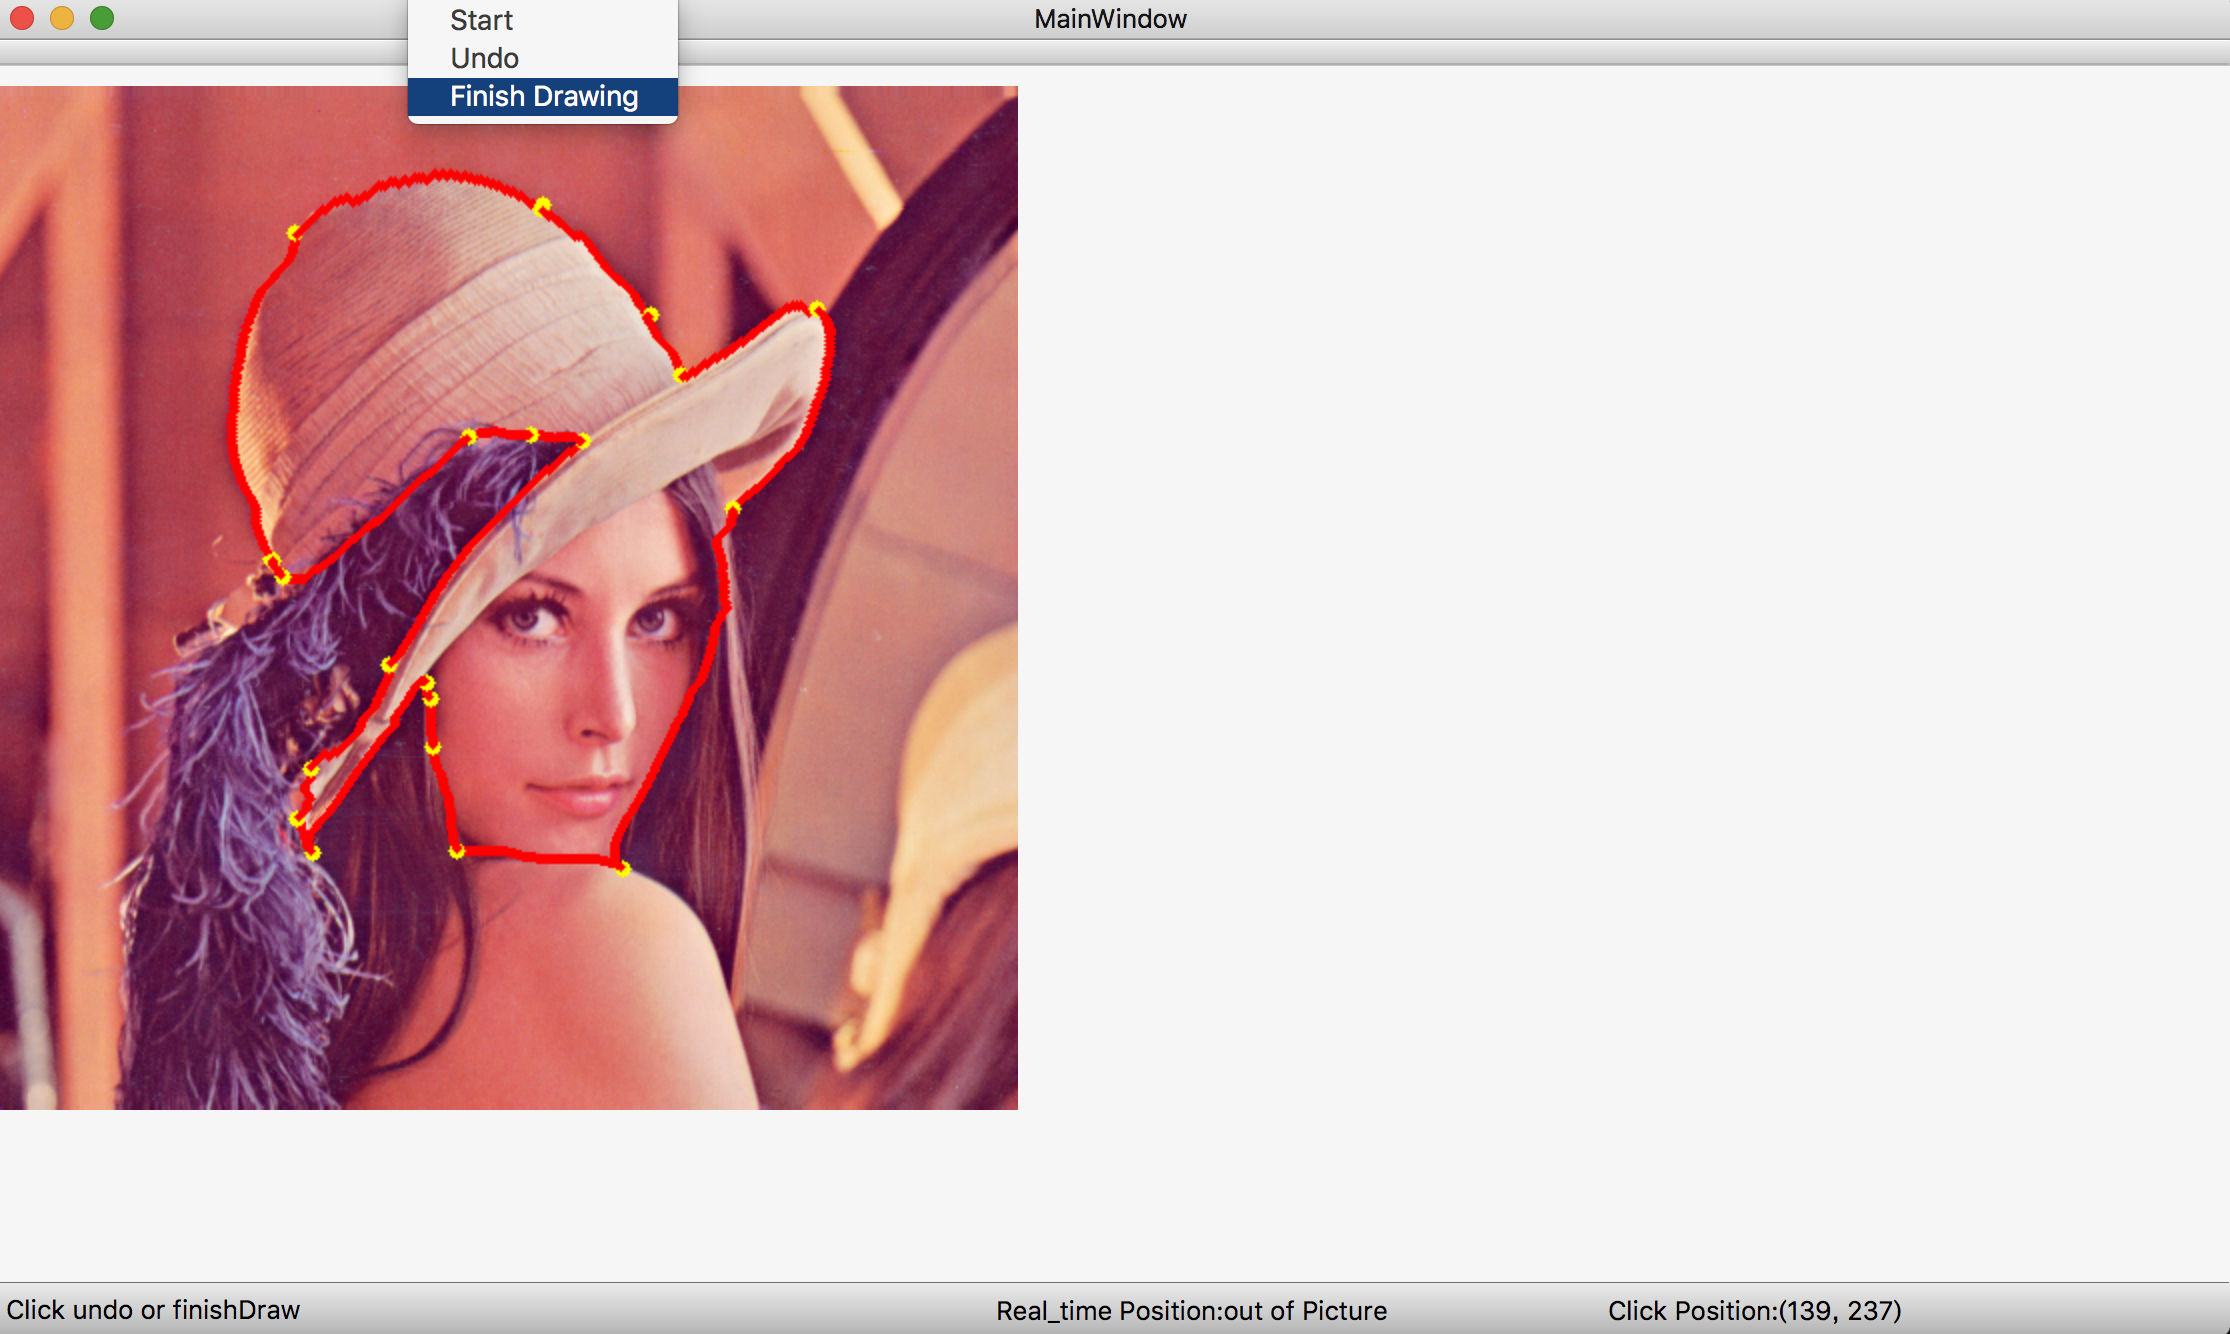
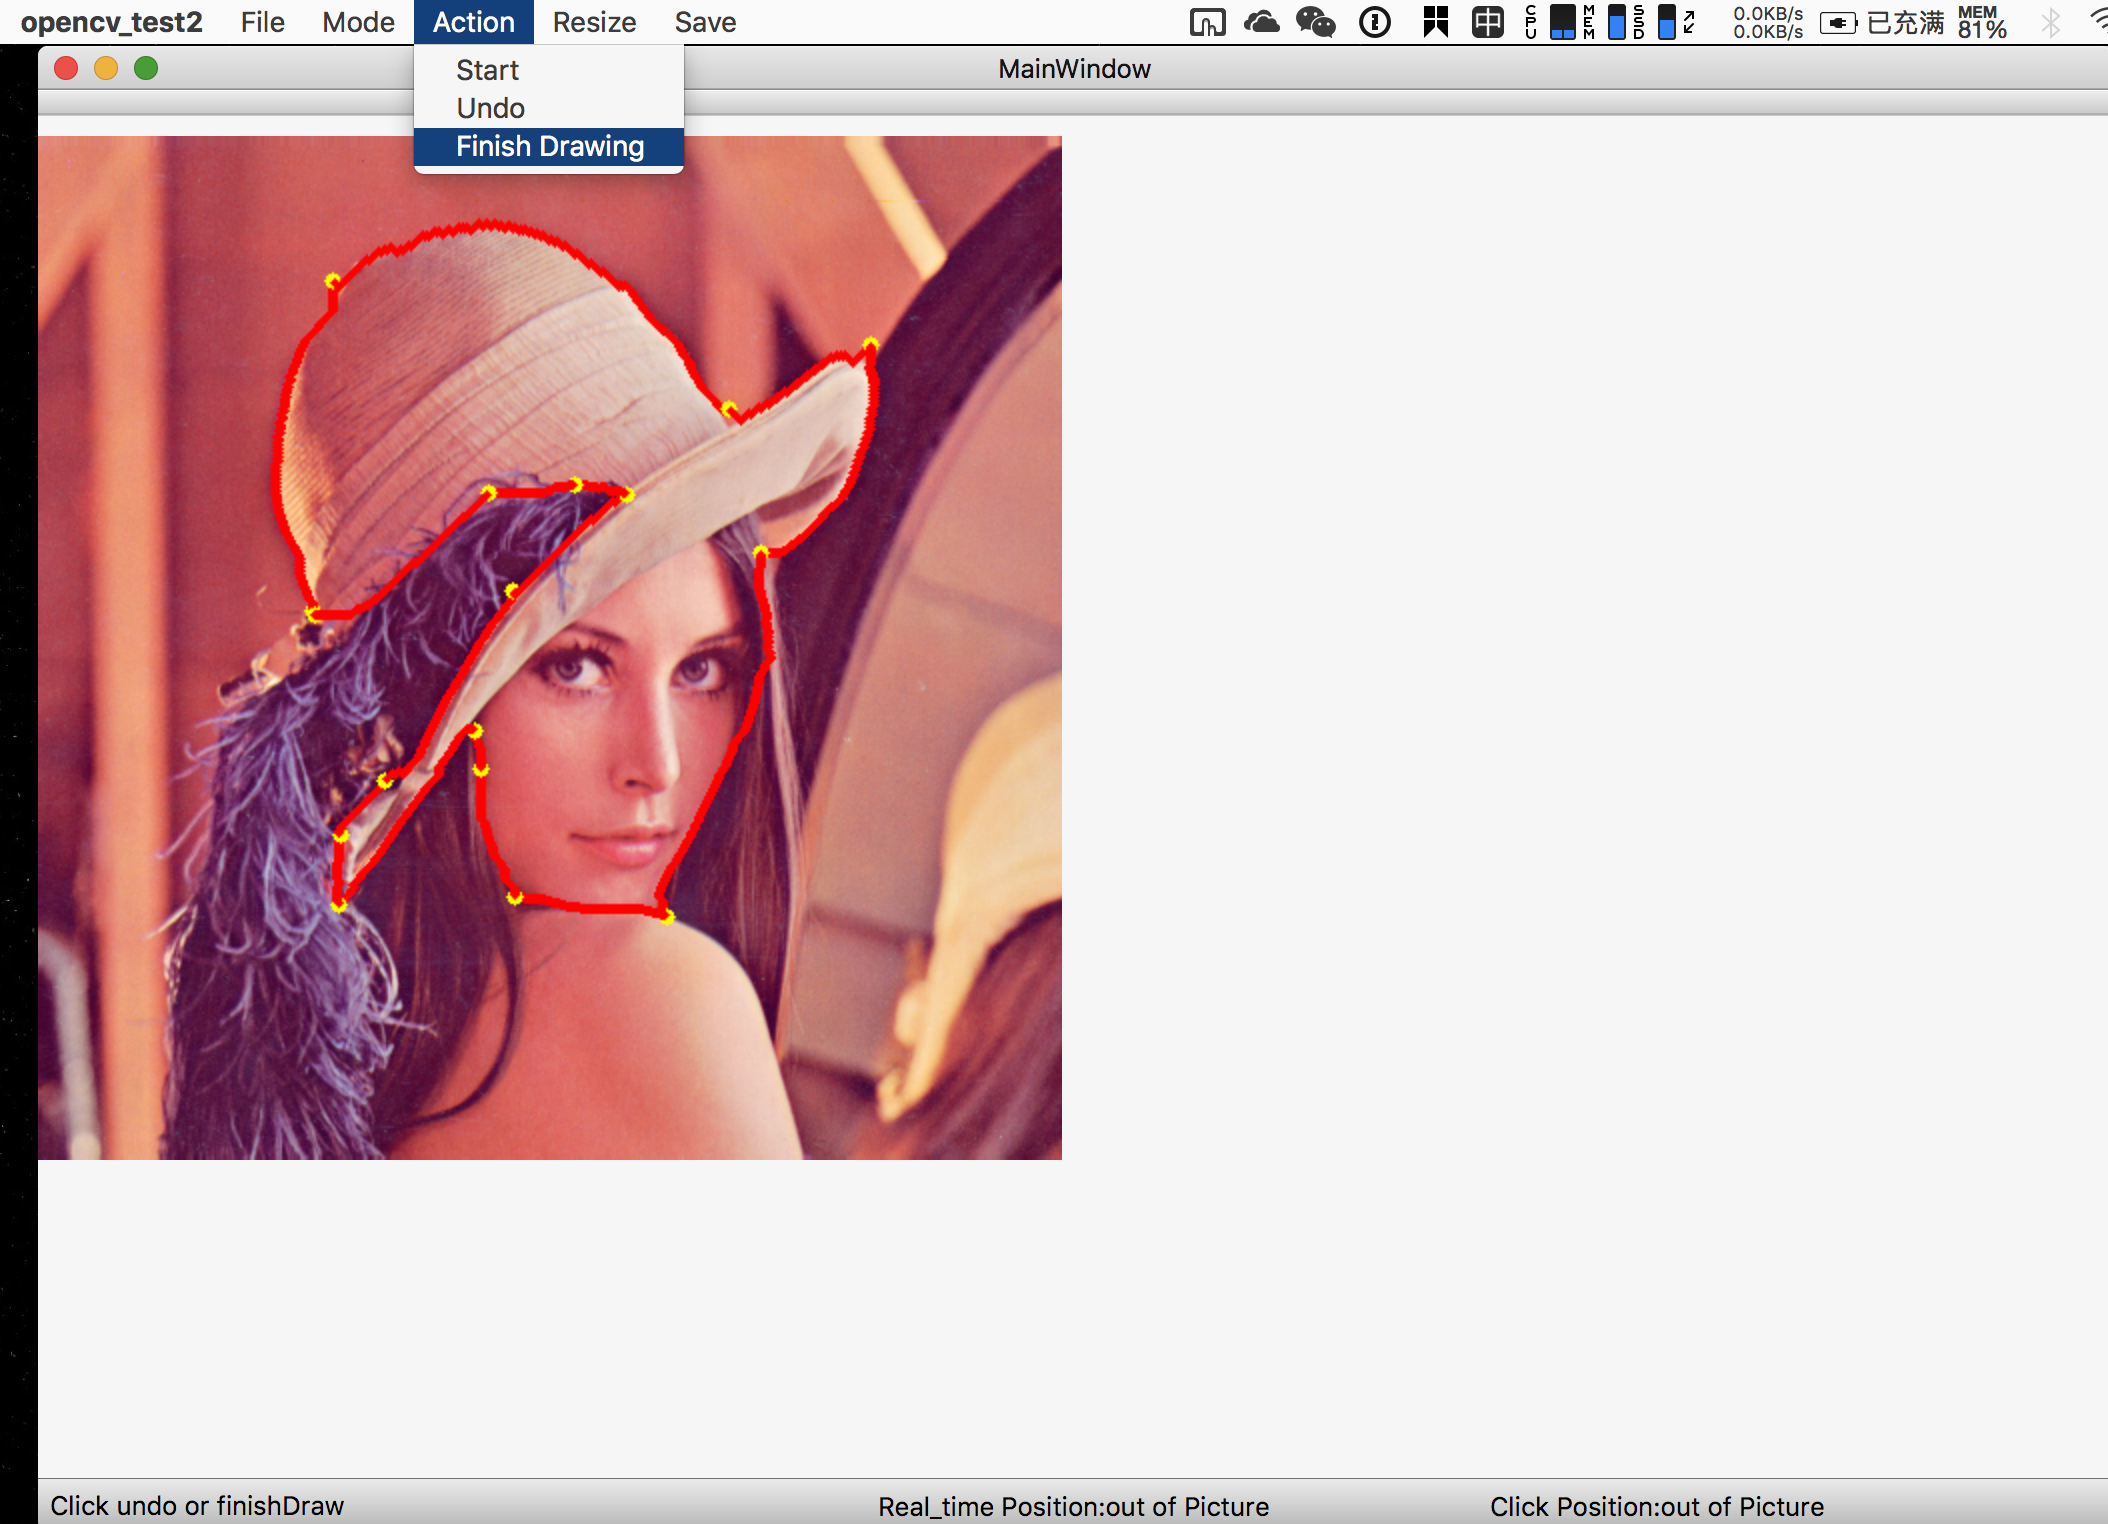
int first blog

diff --git a/_posts/2018-02-07-IntelligentScissors.md b/_posts/2018-02-07-IntelligentScissors.md
@@ -26,107 +26,56 @@ Due to the intranet's limitation, you can click the [Washington CSE 455](https:/
 You can choose any picture in your computer by selecting in the File Manager.
 
 For example, I **open** an example picture of Opencv.
+![](https://raw.githubusercontent.com/wsgtcyx/wsgtcyx.github.io/master/img/intelligent scissors/open file.png)
 
 
-#### 2. Zoom in(out)
-Now you can zoom in or zoom out the picture.
-
-I click zoom in and I get a bigger picture.
-
-#### 3. Choose Mode
+#### 2. Choose Mode
 For universal Use, we choose **Min Path**.
 
-#### 4. Start drawing
-Now you click **start** to start drawing.
+![](https://raw.githubusercontent.com/wsgtcyx/wsgtcyx.github.io/master/img/intelligent scissors/choose mode.png)
+
+#### 3. Start drawing
+Now I click **start** to start drawing.
+
+You can see the two yellow points in the picture are the positions I have clicked. After the first seed is confirmed, we would dynamically demonstrate a min path (Red curve) from the seed point to the current mouse position. 
+
+It is obviously that the algorithm would allow the min path go along with the edge of some essential factors in the picture(such as the hat of lena).
+
+![](https://raw.githubusercontent.com/wsgtcyx/wsgtcyx.github.io/master/img/intelligent scissors/second draw.png)
+
+#### 4. Undo
+We offer the **undo** function in the drawing. You can click undo to delete the last contour in the Picture. Of course you can click "undo" many times to delete many contour.
+
+![](https://raw.githubusercontent.com/wsgtcyx/wsgtcyx.github.io/master/img/intelligent scissors/undo .png)
+
+#### 5. Finish drawing and Save mask
+
+Now, we **finish drawing** and save mask to the computer.
+
+![](https://raw.githubusercontent.com/wsgtcyx/wsgtcyx.github.io/master/img/intelligent scissors/save_mask.png)
+
+**Mask:**
+
+![](https://raw.githubusercontent.com/wsgtcyx/wsgtcyx.github.io/master/img/intelligent scissors/mask.png)
+
+# C.Other Modes
+
+#### 1. Image Only
+show original image without contour superimposed on it.
+
+#### 2.Image with Contour
+show original image with contours superimposed on it.
+
+#### 3. Pixel Node
+Draw a cost graph with original image pixel colors at the center of each 3by3 window, and black everywhere else.
+
+#### 4. Cost Graph
+Draw a cost graph with both pixel colors and link costs, where you can see whether your cost computation is reasonable or not, e.g., low cost (dark intensity) for links along image edges.
+
+#### 5. Path Tree
+show minimum path tree in the cost graph for the current seed; You can use the counter widget to simulate how the tree is computed by specifying the number of expanded nodes. The tree consists of links with yellow color. The back track direction (towards the seed) goes from light yellow to dark yellow.
+ 
+
 >最后附上GitHub：<https://github.com/wsgtcyx/qt_test>
 
  <video controls="" preload="none" poster="http://media.w3.org/2010/05/sintel/poster.png"><source src="http://media.w3.org/2010/05/sintel/trailer.mp4" type="video/mp4"><source src="http://media.w3.org/2010/05/sintel/trailer.webm" type="video/webm"><source src="http://media.w3.org/2010/05/sintel/trailer.ogv" type="video/ogg"><p>Your user agent does not support the HTML5 Video element.</p></video>
-
-<!--# 常见操作方法介绍
-
-
-#### 操作须知
-
-所有的信号（RACSignal）都可以进行操作处理，因为所有操作方法都定义在RACStream.h中，因此只要继承RACStream就有了操作处理方法。
-#### 操作思想
-
-运用的是Hook（钩子）思想，Hook是一种用于改变API(应用程序编程接口：方法)执行结果的技术.
-
-Hook用处：截获API调用的技术。
-
-有关Hook的知识可以看我的这篇博客[《Objective-C Runtime 的一些基本使用》](http://www.jianshu.com/p/ff114e69cc0a)中的 *更换代码的实现方法* 一节,
-
-Hook原理：在每次调用一个API返回结果之前，先执行你自己的方法，改变结果的输出。
-
-#### 操作方法
-
-#### **bind**（绑定）- ReactiveCocoa核心方法
-
-**ReactiveCocoa** 操作的核心方法是 **bind**（绑定）,而且也是RAC中核心开发方式。之前的开发方式是赋值，而用RAC开发，应该把重心放在绑定，也就是可以在创建一个对象的时候，就绑定好以后想要做的事情，而不是等赋值之后在去做事情。
-
-列如，把数据展示到控件上，之前都是重写控件的 `setModel` 方法，用RAC就可以在一开始创建控件的时候，就绑定好数据。
-
-- **作用**
-
-	RAC底层都是调用**bind**， 在开发中很少直接使用 **bind** 方法，**bind**属于RAC中的底层方法，我们只需要调用封装好的方法，**bind**用作了解即可.
-
-- **bind方法使用步骤**
-     1. 传入一个返回值 `RACStreamBindBlock` 的 block。
-     2. 描述一个 `RACStreamBindBlock` 类型的 `bindBlock`作为block的返回值。
-     3. 描述一个返回结果的信号，作为 `bindBlock` 的返回值。
-     
-     注意：在bindBlock中做信号结果的处理。
-- 	**bind方法参数**
-	
-	**RACStreamBindBlock**:
-`typedef RACStream * (^RACStreamBindBlock)(id value, BOOL *stop);`
-
-     `参数一(value)`:表示接收到信号的原始值，还没做处理
-     
-     `参数二(*stop)`:用来控制绑定Block，如果*stop = yes,那么就会结束绑定。
-     
-     `返回值`：信号，做好处理，在通过这个信号返回出去，一般使用 `RACReturnSignal`,需要手动导入头文件`RACReturnSignal.h`
-
-- **使用**
-
-	假设想监听文本框的内容，并且在每次输出结果的时候，都在文本框的内容拼接一段文字“输出：”
-
-	- 使用封装好的方法：在返回结果后，拼接。
-
-		```
-		[_textField.rac_textSignal subscribeNext:^(id x) {
-		
-			// 在返回结果后，拼接 输出：
-			NSLog(@"输出:%@",x);
-		
-		}];
-		```
-
-
-	- 方式二:，使用RAC中 `bind` 方法做处理，在返回结果前，拼接。
-	  
-		这里需要手动导入`#import <ReactiveCocoa/RACReturnSignal.h>`，才能使用`RACReturnSignal`
-
-		```	
-		[[_textField.rac_textSignal bind:^RACStreamBindBlock{
-		   // 什么时候调用:
-		   // block作用:表示绑定了一个信号.
-		
-		   return ^RACStream *(id value, BOOL *stop){
-		
-		       // 什么时候调用block:当信号有新的值发出，就会来到这个block。
-		
-		       // block作用:做返回值的处理
-		
-		       // 做好处理，在返回结果前，拼接 输出:
-		       return [RACReturnSignal return:[NSString stringWithFormat:@"输出:%@",value]];
-		   };
-		
-		}] subscribeNext:^(id x) {
-		
-		   NSLog(@"%@",x);
-		
-		}];
-
-		```
--->
